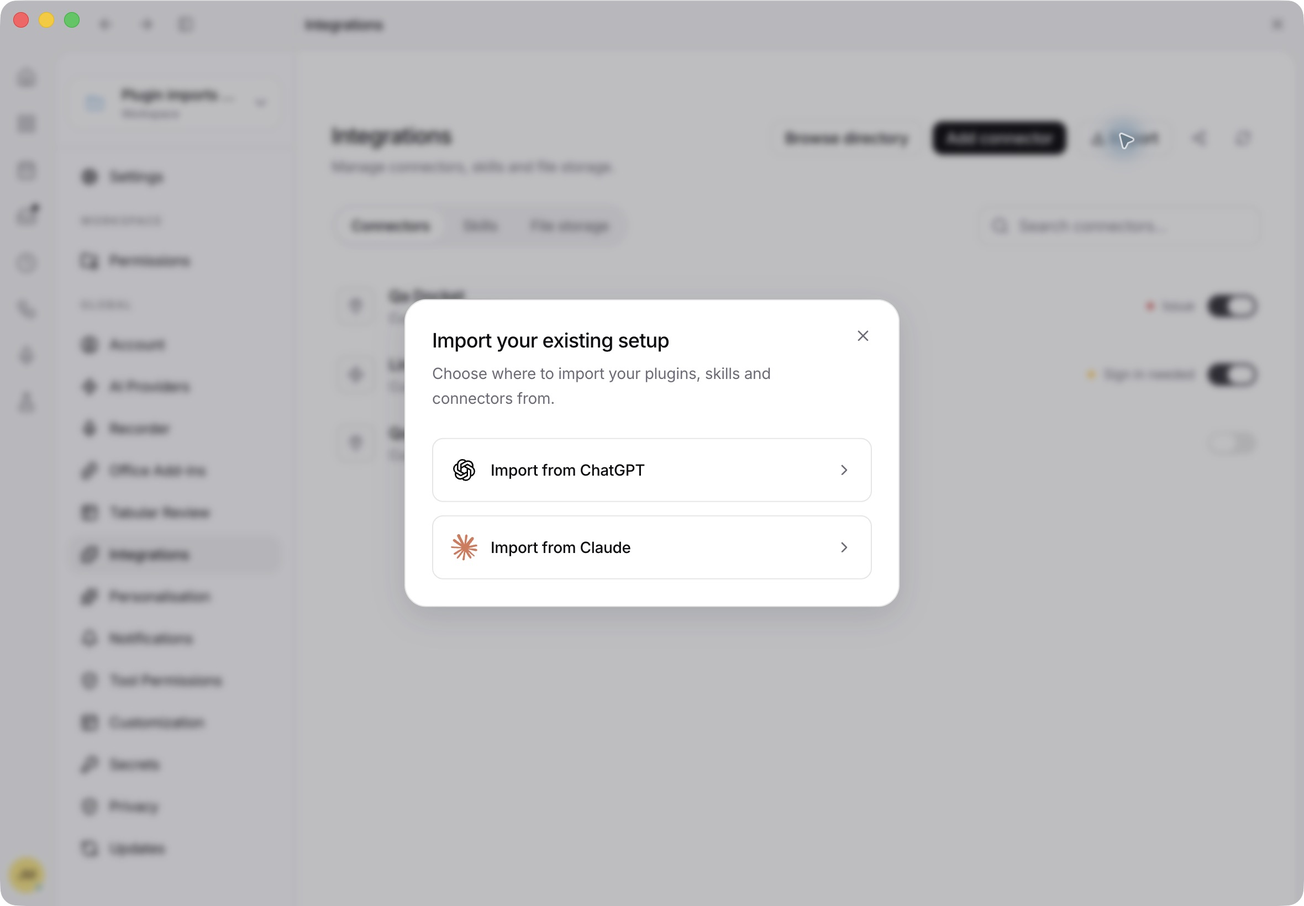
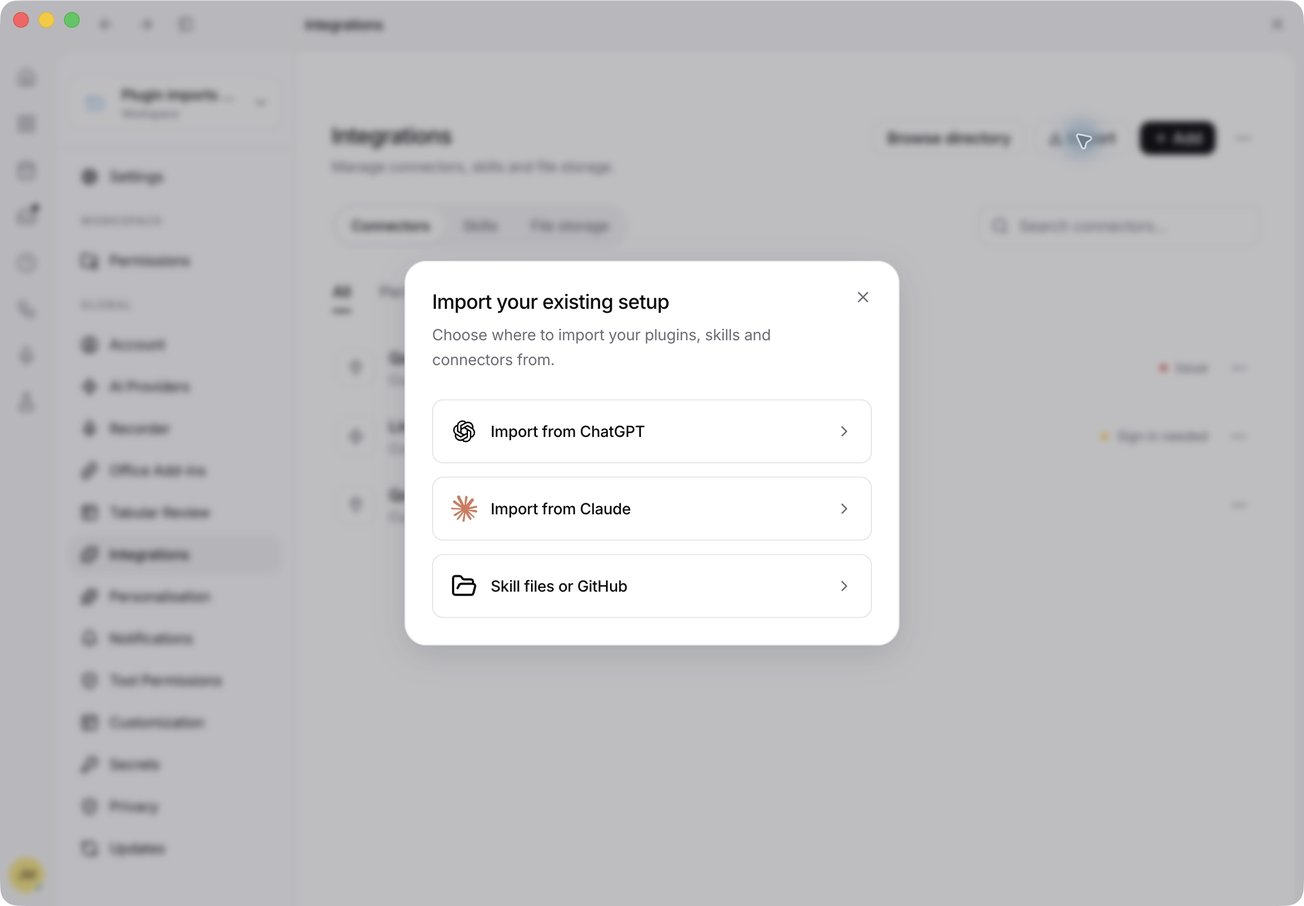
Consolidate skill imports into the main import chooser

diff --git a/apps/app/src/react-app/domains/settings/pages/extensions-view.tsx b/apps/app/src/react-app/domains/settings/pages/extensions-view.tsx
@@ -1,6 +1,6 @@
 import { PluginImportDialog, type PluginImportStore } from "./plugin-import-dialog";
 /** @jsxImportSource react */
-import { useEffect, useState, type ReactNode } from "react";
+import { useEffect, useRef, useState, type ReactNode } from "react";
 import { Download } from "lucide-react";
 
 import { t } from "../../../../i18n";
@@ -11,6 +11,8 @@ import { PluginsView, type PluginsExtensionsStore } from "./plugins-view";
 import { HubScopeContext } from "./hub-scope-context";
 import { HubTabs, type HubTab } from "../segmented-tabs";
 import { IntegrationLibraryLayoutContext, IntegrationMoreMenu, type IntegrationLibrarySource } from "./integration-library";
+import { ImportSkillsButton, type SkillImportStore, type SkillsExtensionsStore } from "./skills-view";
+import { orgPolicyAllows } from "../../connections/org-policy";
 
 export type ExtensionsSection = "all" | "mcp" | "skills" | "plugins" | "storage";
 
@@ -45,6 +47,8 @@ export type ExtensionsViewProps = {
   suggestedPlugins: SuggestedPlugin[];
   extensions: PluginsExtensionsStore;
   pluginImports?: PluginImportStore;
+  skillImports?: SkillImportStore & Pick<SkillsExtensionsStore, "skills">;
+  canImportSkills?: boolean;
   mcpConnectedAppsCount: number;
   /** Connectors tab — the MCP quick-connect grid + configured servers + built-ins. */
   mcpView: ReactNode;
@@ -80,6 +84,8 @@ export function ExtensionsView(props: ExtensionsViewProps) {
         ? "skills"
         : "connectors";
   const [importOpen, setImportOpen] = useState(false);
+  const [skillImportOpen, setSkillImportOpen] = useState(false);
+  const importButton = useRef<HTMLButtonElement>(null);
   const [importVersion, setImportVersion] = useState(0);
   const [tab, setTab] = useState<ExtensionsTab>(initialTab);
   const [source, setSource] = useState<IntegrationLibrarySource>("all");
@@ -93,7 +99,10 @@ export function ExtensionsView(props: ExtensionsViewProps) {
   };
 
   const TABS = tabs(props.developerMode);
+  const canImportPlugins = props.canEditPlugins && props.canUseGlobalScope;
+  const canImportSkills = Boolean(props.skillImports && props.canImportSkills);
   const refresh = () => { setImportVersion(value => value + 1); props.onRefresh(); };
+  const importedSkills = () => { setSource("all"); selectTab("skills"); refresh(); };
 
   return (
     <IntegrationLibraryLayoutContext.Provider value={{ actions: actionsTarget, search: searchTarget, leadingActions: leadingActionsTarget, onRefresh: refresh, revision: importVersion, source }}>
@@ -105,12 +114,23 @@ export function ExtensionsView(props: ExtensionsViewProps) {
           </div>
           <div className="flex max-w-full flex-wrap items-center gap-2">
             <div ref={setLeadingActionsTarget} className="flex items-center gap-2 empty:hidden" />
-            {props.pluginImports ? <Button variant="outline" size="sm" disabled={props.busy || !props.canEditPlugins || !props.canUseGlobalScope} onClick={() => setImportOpen(true)}><Download className="size-3.5" />{t("integrations.import_action")}</Button> : null}
+            {props.pluginImports ? <Button ref={importButton} variant="outline" size="sm" disabled={props.busy || (!canImportPlugins && !canImportSkills)} onClick={() => setImportOpen(true)}><Download className="size-3.5" />{t("integrations.import_action")}</Button> : null}
             <div ref={setActionsTarget} className="flex items-center gap-2 empty:hidden" />
             {tab === "plugins" ? <IntegrationMoreMenu busy={props.busy} /> : null}
           </div>
         </div>
-        {importOpen && props.pluginImports ? <PluginImportDialog store={props.pluginImports} onClose={() => setImportOpen(false)} onImported={preview => { setImportVersion(value => value + 1); setSource("all"); selectTab(preview.format === "connectors" ? "connectors" : "skills"); props.onRefresh(); }} /> : null}
+        {importOpen && props.pluginImports ? <PluginImportDialog store={props.pluginImports} onClose={() => setImportOpen(false)} onImported={preview => { setImportVersion(value => value + 1); setSource("all"); selectTab(preview.format === "connectors" ? "connectors" : "skills"); props.onRefresh(); }}
+          returnFocus={importButton}
+          canImportPlugins={canImportPlugins && !props.busy}
+          canImportSkillFiles={canImportSkills && !props.busy}
+          onImportSkillFiles={props.skillImports ? async () => {
+            if (!props.canImportSkills || props.busy || !(await orgPolicyAllows("skills.allowCustom"))) return;
+            setImportOpen(false);
+            setSource("all");
+            selectTab("skills");
+            setSkillImportOpen(true);
+          } : undefined} /> : null}
+        {props.skillImports ? <ImportSkillsButton open={skillImportOpen} onOpenChange={setSkillImportOpen} returnFocus={importOpen ? false : importButton} asWorkflow={false} busy={props.busy} canUseDesktopTools={!props.isRemoteWorkspace} existingNames={new Set(props.skillImports.skills().map(skill => skill.name))} extensions={props.skillImports} onImported={importedSkills} onPackageImported={importedSkills} onBack={() => { setSkillImportOpen(false); setImportOpen(true); }} /> : null}
         <div className="flex flex-wrap items-center justify-between gap-3">
           <HubTabs items={TABS} value={tab} onChange={selectTab} label={t("extensions.eyebrow_integrations")} />
           <div ref={setSearchTarget} className="w-full empty:hidden sm:w-auto" />

diff --git a/apps/app/src/react-app/domains/settings/pages/skills-view.tsx b/apps/app/src/react-app/domains/settings/pages/skills-view.tsx
@@ -9,10 +9,12 @@ import {
   useState,
   type KeyboardEvent as ReactKeyboardEvent,
   type ReactNode,
+  type RefObject,
   type SetStateAction,
 } from "react";
 import {
   Blocks,
+  ArrowLeft,
   Bot,
   CheckCircle2,
   ChevronLeft,
@@ -342,7 +344,6 @@ export function SkillsView(props: SkillsViewProps) {
 
   const isWorkflowsView = props.kind === "workflows";
   const source = isWorkflowsView ? "all" : libraryLayout?.source ?? "all";
-  const [skillsImportOpen, setSkillsImportOpen] = useState(false);
   const [skillCreateOpen, setSkillCreateOpen] = useState(false);
   const [packagesOpen, setPackagesOpen] = useState(false);
   // Local | Team toggle: "Local" shows this workspace's installed items; "Team"
@@ -714,16 +715,14 @@ export function SkillsView(props: SkillsViewProps) {
               </>
             ) : (
               <>
-                <ImportSkillsButton
-                  open={libraryLayout ? skillsImportOpen : undefined}
-                  onOpenChange={libraryLayout ? setSkillsImportOpen : undefined}
+                {!libraryLayout ? <ImportSkillsButton
                   asWorkflow={false}
                   busy={props.busy}
                   canUseDesktopTools={props.canUseDesktopTools}
                   existingNames={installedNames}
                   extensions={extensions}
                   onPackageImported={() => setPackagesRevision((revision) => revision + 1)}
-                />
+                /> : null}
                 {!libraryLayout ? <button
                   type="button"
                   onClick={() => runDesktopAction(extensions.revealSkillsFolder)}
@@ -745,7 +744,6 @@ export function SkillsView(props: SkillsViewProps) {
                 {libraryLayout ? <>
                   <IntegrationAddMenu disabled={props.busy} actions={[{ label: t("skills.new_skill"), icon: Plus, onClick: async () => { if (await orgPolicyAllows("skills.allowCustom")) setSkillCreateOpen(true); } }]} />
                   <IntegrationMoreMenu busy={props.busy} onRefresh={refreshCatalogs}>
-                    <DropdownMenuItem disabled={props.busy} onClick={async () => { if (await orgPolicyAllows("skills.allowCustom")) setSkillsImportOpen(true); }}><Download />{t("integrations.import_skill_files")}</DropdownMenuItem>
                     <DropdownMenuItem onClick={() => setPackagesOpen(true)}><Package />{t("skills.packages_title")}</DropdownMenuItem>
                     <DropdownMenuItem disabled={props.busy || !props.canUseDesktopTools} onClick={() => runDesktopAction(extensions.revealSkillsFolder)}><FolderOpen />{t("skills.reveal_folder")}</DropdownMenuItem>
                   </IntegrationMoreMenu>
@@ -1676,14 +1674,19 @@ function WorkflowCreatorButton(props: {
   );
 }
 
+export type SkillImportStore = Pick<SkillsExtensionsStore, "scanGithubSkills" | "previewClaudePlugin" | "importGithubSkills" | "installClaudePlugin" | "importLocalSkill" | "importLocalSkillZip">;
+
 export function ImportSkillsButton(props: {
   open?: boolean;
   onOpenChange?: (open: boolean) => void;
+  onBack?: () => void;
+  onImported?: () => void;
+  returnFocus?: false | RefObject<HTMLElement | null>;
   asWorkflow: boolean;
   busy: boolean;
   canUseDesktopTools: boolean;
   existingNames: Set<string>;
-  extensions: SkillsExtensionsStore;
+  extensions: SkillImportStore;
   /** A whole package was imported (skills, connectors and commands together). */
   onPackageImported?: () => void;
 }) {
@@ -1809,6 +1812,7 @@ export function ImportSkillsButton(props: {
       if (result.ok) {
         toast.success(result.message);
         setSelected(new Set());
+        props.onImported?.();
       }
     } finally {
       setImporting(false);
@@ -1865,8 +1869,9 @@ export function ImportSkillsButton(props: {
           if (!next) reset();
         }}
       >
-        <DialogContent className="flex max-h-[88vh] min-h-0 w-full max-w-2xl flex-col overflow-hidden sm:max-w-2xl">
+        <DialogContent className="flex max-h-[88vh] min-h-0 w-full max-w-2xl flex-col overflow-hidden sm:max-w-2xl" finalFocus={props.returnFocus}>
           <DialogHeader>
+            {props.onBack ? <Button variant="link" size="xs" className="mb-2 w-fit px-0 text-muted-foreground" disabled={scanning || importing} onClick={() => { reset(); props.onBack?.(); }}><ArrowLeft className="size-3.5" />{t("common.back")}</Button> : null}
             <DialogTitle>{asWorkflow ? t("skills.import_workflows_title") : t("integrations.import_skill_files")}</DialogTitle>
             <DialogDescription>
               {asWorkflow ? "Bring in workflow folders from a GitHub repo or a local folder. Each is a directory containing a SKILL.md. Imported items are added as workflows." : t("integrations.import_skill_files_description")}

diff --git a/apps/app/src/react-app/domains/settings/pages/plugin-import-dialog.tsx b/apps/app/src/react-app/domains/settings/pages/plugin-import-dialog.tsx
@@ -1,4 +1,4 @@
-import { useEffect, useRef, useState } from "react";
+import { useEffect, useRef, useState, type RefObject } from "react";
 import JSZip from "jszip";
 import { ArrowLeft, Blocks, Bot, ChevronRight, FileArchive, FolderOpen, Loader2, Package, Plug, RefreshCw, Search, Terminal, TriangleAlert } from "lucide-react";
 import type { PluginImportCandidate, PluginImportPreview, PluginImportProvider, PluginImportRequest, PluginImportSource } from "@legalwork/types/plugin-import";
@@ -26,7 +26,7 @@ const componentIcons = { skill: Blocks, mcp: Plug, agent: Bot, command: Terminal
 const componentTitle = (type: PluginImportPreview["components"][number]["type"]) =>
   t(type === "skill" ? "skills.title" : type === "mcp" ? "extensions.connectors_label" : type === "agent" ? "composer.agents_label" : "dashboard.commands");
 
-export function PluginImportDialog(props: { store: PluginImportStore; onClose: () => void; onImported: (preview: PluginImportPreview) => void }) {
+export function PluginImportDialog(props: { store: PluginImportStore; onClose: () => void; onImported: (preview: PluginImportPreview) => void; onImportSkillFiles?: () => void | Promise<void>; canImportSkillFiles?: boolean; canImportPlugins?: boolean; returnFocus?: RefObject<HTMLElement | null> }) {
   const [provider, setProvider] = useState<PluginImportProvider | null>(null);
   const [candidates, setCandidates] = useState<PluginImportCandidate[]>([]);
   const [discovering, setDiscovering] = useState(true);
@@ -155,12 +155,13 @@ export function PluginImportDialog(props: { store: PluginImportStore; onClose: (
   };
 
   return <Dialog open onOpenChange={open => { if (!open && !installing) props.onClose(); }}>
-    <DialogContent className={provider ? "flex max-h-[calc(100dvh-3rem)] flex-col gap-0 bg-background p-0 sm:max-w-2xl" : "bg-background"} showCloseButton={!installing}>
+    <DialogContent className={provider ? "flex max-h-[calc(100dvh-3rem)] flex-col gap-0 bg-background p-0 sm:max-w-2xl" : "bg-background"} showCloseButton={!installing} finalFocus={props.returnFocus}>
       {provider === null ? <>
         <DialogHeader className="pe-6"><DialogTitle>{t("integrations.import_title")}</DialogTitle><DialogDescription>{t("integrations.import_choose_provider")}</DialogDescription></DialogHeader>
         <div className="space-y-3">
-          <Button ref={providerButton} autoFocus variant="outline" className="h-auto w-full justify-between gap-4 px-4 py-4" onClick={() => setProvider("chatgpt")}><span className="flex items-center gap-3"><ChatGptLogo className="size-6 shrink-0" />{t("extensions.import_chatgpt")}</span><ChevronRight className="size-4 text-muted-foreground" /></Button>
-          <Button variant="outline" className="h-auto w-full justify-between gap-4 px-4 py-4" onClick={() => setProvider("claude")}><span className="flex items-center gap-3"><img src={claudeLogo} alt="" aria-hidden="true" width={24} height={24} className="size-6 shrink-0" />{t("extensions.import_claude")}</span><ChevronRight className="size-4 text-muted-foreground" /></Button>
+          <Button ref={providerButton} autoFocus variant="outline" className="h-auto w-full justify-between gap-4 px-4 py-4" disabled={props.canImportPlugins === false} onClick={() => setProvider("chatgpt")}><span className="flex items-center gap-3"><ChatGptLogo className="size-6 shrink-0" />{t("extensions.import_chatgpt")}</span><ChevronRight className="size-4 text-muted-foreground" /></Button>
+          <Button variant="outline" className="h-auto w-full justify-between gap-4 px-4 py-4" disabled={props.canImportPlugins === false} onClick={() => setProvider("claude")}><span className="flex items-center gap-3"><img src={claudeLogo} alt="" aria-hidden="true" width={24} height={24} className="size-6 shrink-0" />{t("extensions.import_claude")}</span><ChevronRight className="size-4 text-muted-foreground" /></Button>
+          {props.onImportSkillFiles ? <Button variant="outline" className="h-auto w-full justify-between gap-4 px-4 py-4" disabled={!props.canImportSkillFiles} onClick={props.onImportSkillFiles}><span className="flex items-center gap-3"><FolderOpen className="size-6 shrink-0" />{t("integrations.import_files_or_github")}</span><ChevronRight className="size-4 text-muted-foreground" /></Button> : null}
         </div>
       </> : <>
       <DialogHeader className="shrink-0 px-6 pb-5 pt-6">

diff --git a/apps/app/tests/plugin-import-buttons.test.tsx b/apps/app/tests/plugin-import-buttons.test.tsx
@@ -23,3 +23,14 @@ test("read-only clients keep visible but disabled import actions", () => {
   expect(importButtons).toHaveLength(1);
   for (const button of importButtons) expect(button).toMatch(/^<button\b[^>]*\sdisabled(?:=|[\s>])/);
 });
+
+test("skill imports remain available when plugin editing is read-only, with one Import entry point", () => {
+  const skillImports: ExtensionsViewProps["skillImports"] = {
+    skills: () => [], scanGithubSkills: async () => ({ ref: "main", skills: [] }), previewClaudePlugin: async () => { throw new Error("not invoked"); },
+    importGithubSkills: async () => ({ ok: true, message: "" }), installClaudePlugin: async () => ({ ok: true, message: "" }), importLocalSkill: noop, importLocalSkillZip: noop,
+  };
+  const html = renderToStaticMarkup(<ExtensionsView {...props} canEditPlugins={false} canImportSkills skillImports={skillImports} />);
+  const importButtons = html.match(/<button\b[^>]*>(?:(?!<\/button>)[\s\S])*?>Import<\/button>/g) ?? [];
+  expect(importButtons).toHaveLength(1);
+  expect(importButtons[0]).not.toMatch(/^<button\b[^>]*\sdisabled(?:=|[\s>])/);
+});

diff --git a/apps/app/src/i18n/locales/de.ts b/apps/app/src/i18n/locales/de.ts
@@ -34,6 +34,7 @@ const de = {
   "integrations.skill_commands": "Starten Sie diesen Skill mit diesen Befehlen im Chat.",
   "integrations.browse_team_skills": "Team-Skills durchsuchen",
   "integrations.import_skill_files": "Skill-Dateien importieren",
+  "integrations.import_files_or_github": "Skill-Dateien oder GitHub",
   "integrations.import_skill_files_description": "Importieren Sie Skills aus einem GitHub-Repository, einem Ordner oder einer ZIP-Datei.",
   "firm_hub.skills": "Geteilte Skills",
   "firm_hub.skills_desc": "Skills Ihrer Kanzlei. Automatisch hinzugefügte Skills stehen bereits in Ihrer Liste; optionale Skills können Sie bei Bedarf hinzufügen.",

diff --git a/apps/app/src/i18n/locales/en.ts b/apps/app/src/i18n/locales/en.ts
@@ -24,6 +24,7 @@ export default {
   "integrations.skill_commands": "Use these commands in chat to start this skill.",
   "integrations.browse_team_skills": "Browse team skills",
   "integrations.import_skill_files": "Import skill files",
+  "integrations.import_files_or_github": "Skill files or GitHub",
   "integrations.import_skill_files_description": "Import skills from a GitHub repository, a folder, or a ZIP file.",
   "firm_hub.skills": "Shared skills",
   "firm_hub.skills_desc": "Skills offered by your firm. Automatically added skills are already in your list; add optional skills when you need them.",

diff --git a/apps/app/src/react-app/shell/settings-route.tsx b/apps/app/src/react-app/shell/settings-route.tsx
@@ -2338,6 +2338,8 @@ function SettingsRouteContent(props: SettingsSurfaceProps = {}) {
             suggestedPlugins={SUGGESTED_PLUGINS}
             extensions={extensionsStore}
             pluginImports={extensionsStore}
+            skillImports={extensionsStore}
+            canImportSkills={canWriteWorkspaceSkills}
             mcpConnectedAppsCount={mcpConnectedAppsCount}
             initialSection={route.extensionsSection}
             setSectionRoute={(section) => {

diff --git a/docs/plugin-imports.md b/docs/plugin-imports.md
@@ -1,17 +1,17 @@
 # Import ChatGPT and Claude plugins
 
-On **Integrations**, choose **Import** in the top toolbar, then select **ChatGPT** or **Claude** in the provider chooser. Both choices show their logos. **Change app** returns to the chooser. The next dialog shows a searchable list of plugins, skills and standalone MCP connectors found on this computer, using display names and descriptions from package metadata. **All / Plugins / Skills / Connectors** filters sit below the search field and work together with search; returning from a preview keeps both selections. Duplicate versions appear as one row, with other copies available in the source details. You can also choose a complete folder or ZIP with the native file picker. Selecting a source opens a separate review of its skills, connectors, agents, commands and compatibility notices before importing. A folder or archive containing multiple plugin manifests lets you choose the package to import. Import each package individually.
+On **Integrations**, choose the single **Import** action in the top toolbar. The chooser offers **ChatGPT**, **Claude**, and **Skill files or GitHub**. The file/GitHub choice opens the existing skill importer, with GitHub scanning, native folder/ZIP choices, and Back to the source chooser. ChatGPT and Claude show their logos. **Change app** returns to the chooser. The next dialog shows a searchable list of plugins, skills and standalone MCP connectors found on this computer, using display names and descriptions from package metadata. **All / Plugins / Skills / Connectors** filters sit below the search field and work together with search; returning from a preview keeps both selections. Duplicate versions appear as one row, with other copies available in the source details. You can also choose a complete folder or ZIP with the native file picker. Selecting a source opens a separate review of its skills, connectors, agents, commands and compatibility notices before importing. A folder or archive containing multiple plugin manifests lets you choose the package to import. Import each package individually.
 
 Imports are automatically available in all projects, matching the desktop Skills and Connectors libraries. Choose a folder using the native file picker, choose a ZIP, or select an auto-discovered installation. Preview opens automatically after selection. Discovery, installation and removal require owner access and respect custom-plugin, skill and connector policies. The underlying API retains project-scoped installation support for existing integrations.
 
 ## Integration libraries
 
-The Integrations page keeps **Connectors / Skills / File storage** separate. **Import, Add and More** stay in the same positions with the same button styles on all three tabs. Add opens the creation or connection form directly on every tab. Connectors has a separate Browse directory button immediately to the left of Import. More holds library tools followed by Refresh, with separators between tool groups. The normal LegalWork segmented tabs sit beside search. The Local/Team switch is removed: team items appear alongside personal items with a **Team** label.
+The Integrations page keeps **Connectors / Skills / File storage** separate. **Import, Add and More** stay in the same positions with the same button styles on all three tabs. Add opens the creation or connection form directly on every tab. Connectors has a separate Browse directory button immediately to the left of Import. More holds library tools followed by Refresh, with separators between tool groups. The normal LegalWork segmented tabs sit beside search. The underlined **All / Personal / Team** source tabs sit below the category tabs. Team items appear alongside personal items with a **Team** label.
 
 All library entries use the same icon, name, one-line description and three-dot action menu. Clicking a row opens its details or editor; menus use a fixed order: View details, Edit when available, Export, Share with firm, then separated destructive Remove. Items only offer supported actions, and read-only connectors have no removal action. Enablement, account access and optional team membership live in details rather than adding different controls to different rows.
 
 - **Connectors:** saved connections and active built-in tools appear first; ready items precede paused/offline items. Paused connectors remain available to inspect and enable in details. Browse directory sits immediately to the left of Import and opens the separate searchable catalog with All / Services / LegalWork tools filters. Closing a detail returns to the same directory search. Saved connectors open a compact management modal with chat access, account actions and optional technical details. Team connectors use the same list, ordering and search without duplicate engine-config rows. Optional team membership keeps its review and enablement switch in details; automatic team connectors remain managed by the firm. Team sign-in and member-key controls stay available. Own connectors, removal, sharing, policy restrictions and read-only global configuration retain their behavior.
-- **Skills:** the complete installed library uses the same rows and menu pattern, with editing, exporting, sharing and removal where available. A compact dropdown beside search offers All skills / Your skills / Included / Imported packages, avoiding a second tab bar. Add opens New skill directly. More contains Browse team skills, Import skill files (GitHub/folder/ZIP), Open skills folder, and Refresh. The shared-skill browser is labeled Shared skills and explains why optional team items may not be installed yet. Built-in skills open descriptions and their chat commands; packages open their component summary and offer removal in the row menu. Search includes readable imported names, descriptions and built-in commands. Ordinary skills no longer inherit the eight-item workflow page limit; workflows retain their existing creation controls and pagination. Package loading and failures have explicit states.
+- **Skills:** personal and team skills use the same rows and menu pattern, with editing, exporting, sharing and removal where supported. All also includes built-in expertise; Team shows the full Knowledge Hub catalogue, including optional skills not yet added. Add opens New skill directly. More contains Imported packages, Open skills folder and Refresh. All import methods live behind the main Import action. Built-in skills open descriptions and chat commands; imported packages open their components and retain removal. Search includes readable imported names, descriptions and built-in commands. Ordinary skills have no eight-item workflow page limit; workflows retain existing controls and pagination. Package loading/failures have explicit states.
 - **File storage:** connected accounts use the same rows, with provider and access mode as their description. Clicking an account opens details with its account/membership controls; personal sources also offer editing and disconnecting through the row menu. Add directly opens the existing searchable provider picker and configuration flow, without a one-option dropdown. Change provider returns to the picker before saving. Empty/search/error states distinguish an empty library from missing matches. Personal and team sources share one list. Team sources carry a Team label and retain membership/account controls without personal edit/remove actions. Existing access controls remain intact.
 
 This organization follows the installed-item management and separate discovery flows documented in [ChatGPT account management](https://help.openai.com/en/articles/20001494-connecting-and-managing-app-accounts-in-chatgpt), [Claude connectors](https://support.claude.com/en/articles/11176164-use-connectors-to-extend-claude-s-capabilities), and [Claude's directory](https://support.claude.com/en/articles/14328846-browse-skills-connectors-and-plugins-in-one-directory), reviewed October 11, 2026. LegalWork keeps its existing design-system tokens and the requested three-category split.
@@ -86,7 +86,7 @@ All combines personal and team items; Skills also includes the expertise built i
 
 All rows use icon, name, description and a three-dot action menu. View details comes first, then Edit, Export and Share when supported, followed by separated Remove. Sharing reviews only the selected item under its readable name. Team skill rows retain optional Add/Remove membership and the existing confirmation; installed team skills retain their read-only instructions/resource viewer. Automatic items stay managed by the firm. Connector account/enablement controls and storage membership remain in their details dialogs. Ready/Paused labels beside toggles, the sync indicator, unavailable expand arrows and the global project-availability badge are removed.
 
-Skills More contains Import skill files, Imported packages, Open skills folder and Refresh. The package manager remains reachable without mixing whole packages into the skills source filter. Package components still appear in the appropriate main libraries. Workflows retain their existing controls and pagination.
+Skills More contains Imported packages, Open skills folder and Refresh. The separate Import skill files menu entry is removed; the main Import chooser includes its GitHub/folder/ZIP flow. The package manager remains reachable without mixing whole packages into the skills source filter. Package components still appear in the appropriate main libraries. Workflows retain their existing controls and pagination.
 
 ![Connector library with underlined source tabs](images/integrations-connectors-library.png)
 
@@ -108,7 +108,7 @@ Skills More contains Import skill files, Imported packages, Open skills folder a
 
 ![Sharing reviews only the selected skill](images/integrations-single-item-sharing.png)
 
-The final focused check, `pnpm --filter @legalwork/app exec bun test tests/integration-libraries.test.tsx tests/mcp-library.test.tsx tests/plugin-import-buttons.test.tsx`, passed 19 tests. The source-tab change passed `pnpm --filter @legalwork/app test` (948 tests across 146 files), `pnpm --filter @legalwork/app typecheck`, `pnpm --filter @legalwork/app build`, and `pnpm --filter @legalwork/app test:i18n` (5,747 keys per language). Regression coverage verifies source isolation for all three libraries, team connector/configuration deduplication, automatic ownership, optional connectors, the complete team skills catalogue appearing once, embedded team-skill search/empty results, built-in command search, and team storage access restrictions.
+The final focused check, `pnpm --filter @legalwork/app exec bun test tests/integration-libraries.test.tsx tests/mcp-library.test.tsx tests/plugin-import-buttons.test.tsx`, passed 20 tests. The integration libraries passed `pnpm --filter @legalwork/app test` (949 tests across 146 files), `pnpm --filter @legalwork/app typecheck`, `pnpm --filter @legalwork/app build`, and `pnpm --filter @legalwork/app test:i18n` (5,748 keys per language). Regression coverage verifies source isolation for all three libraries, team connector/configuration deduplication, automatic ownership, optional connectors, the complete team skills catalogue appearing once, embedded team-skill search/empty results, built-in command search, and team storage access restrictions.
 
 Native Electron verification covered all three source-tab rows, arrow-key focus and Enter activation, connector search retained across source changes, personal skills excluding built-ins, the inline Team skills empty state, the cleaned-up More menu, the imported-package manager, source selection retained across category changes, and the actual shared storage source excluded by Personal and included by All/Team. This account has no shared team skills, so populated catalogue and membership rendering were checked with cached server-view fixtures. No connection, team membership, credential or shared item was changed.
 
@@ -121,3 +121,7 @@ The team connectors explanatory paragraph is removed from the library empty stat
 ![Team connectors without the explanatory paragraph](images/integrations-connectors-team-empty.png)
 
 The corresponding explanatory paragraphs are also removed from Team Skills and Team File storage. Their headings and search-result hints remain. The focused library/import check passed again (19 tests).
+
+Native verification of the single import entry opened the chooser from Connectors, followed Skill files or GitHub into the Skills importer, checked its GitHub/folder/ZIP controls, returned with Back, and confirmed focus remained in the chooser and returned to Import on close. The Skills More menu no longer contains import actions. No source was installed during this navigation check. The full app suite passed 949 tests; type checking, production build and translation checks passed (5,748 keys per language). The final focused check passed 20 tests, including skill import availability when plugin editing is read-only.
+
+![Skill files and GitHub behind the main Import action](images/integrations-skill-file-import.png)
